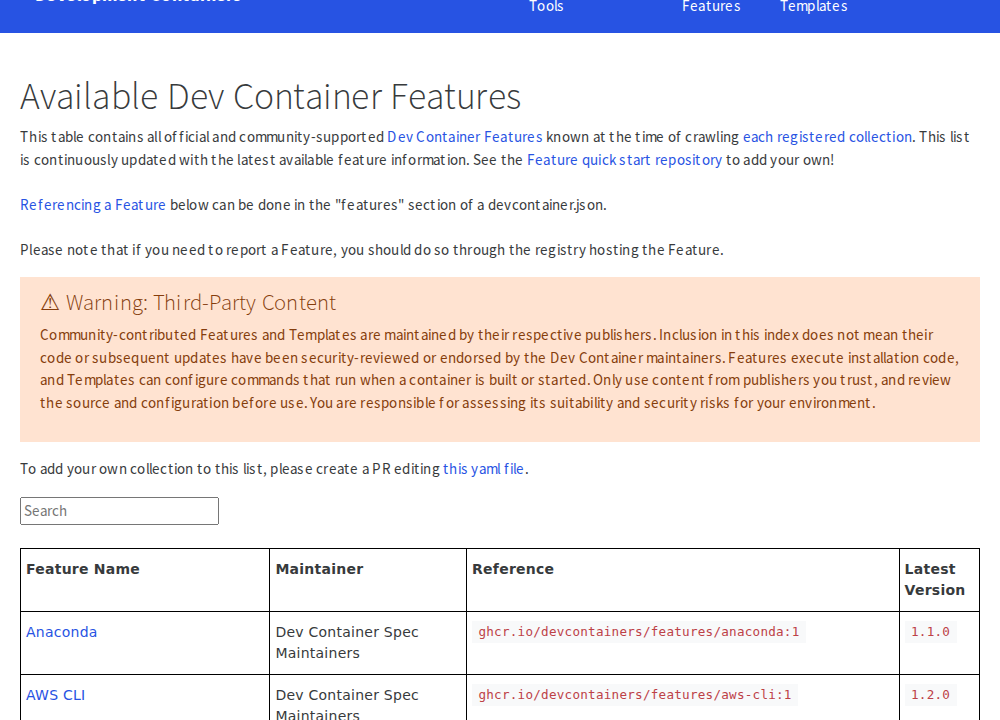
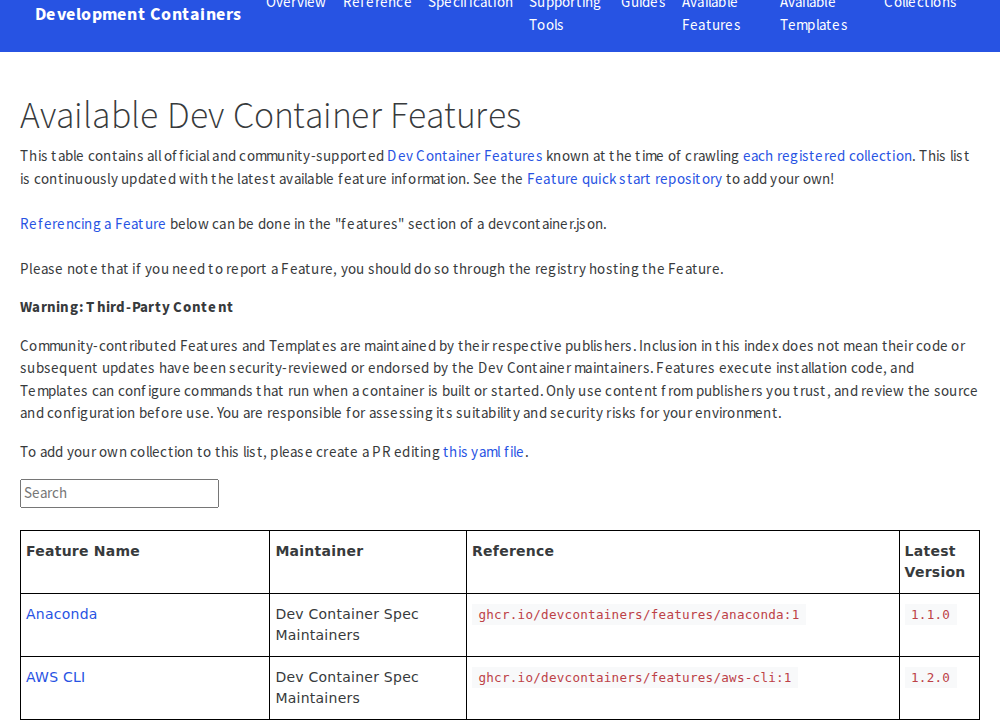
Align third-party warnings with native site notes

diff --git a/templates.html b/templates.html
@@ -16,18 +16,10 @@ sectionid: collection-index-templates
     Please note that if you need to report a Template, you should do so through the registry hosting the Template.
 </p>
 
-<div class="alert alert-warning third-party-content-warning" role="note" aria-labelledby="third-party-content-heading">
-    <h2 class="h4" id="third-party-content-heading"><span aria-hidden="true">&#9888;</span> Warning: Third-Party Content
-    </h2>
-    <p>Community-contributed Features and Templates are maintained by their respective publishers. Inclusion in this
-        index
-        does not mean their code or subsequent updates have been security-reviewed or endorsed by the Dev Container
-        maintainers. Features execute installation code, and Templates can configure commands that run when a container
-        is
-        built or started. Only use content from publishers you trust, and review the source and configuration before
-        use.
-        You are responsible for assessing its suitability and security risks for your environment.</p>
-</div>
+<blockquote class="third-party-content-warning" role="note" aria-labelledby="third-party-content-heading">
+    <p id="third-party-content-heading"><strong>Warning: Third-Party Content</strong></p>
+    <p>Community-contributed Features and Templates are maintained by their respective publishers. Inclusion in this index does not mean their code or subsequent updates have been security-reviewed or endorsed by the Dev Container maintainers. Features execute installation code, and Templates can configure commands that run when a container is built or started. Only use content from publishers you trust, and review the source and configuration before use. You are responsible for assessing its suitability and security risks for your environment.</p>
+</blockquote>
 
 <p>
     To add your own collection to this list, please create a PR editing <a

diff --git a/features.html b/features.html
@@ -18,18 +18,10 @@ sectionid: collection-index-features
     Please note that if you need to report a Feature, you should do so through the registry hosting the Feature.
 </p>
 
-<div class="alert alert-warning third-party-content-warning" role="note" aria-labelledby="third-party-content-heading">
-    <h2 class="h4" id="third-party-content-heading"><span aria-hidden="true">&#9888;</span> Warning: Third-Party Content
-    </h2>
-    <p>Community-contributed Features and Templates are maintained by their respective publishers. Inclusion in this
-        index
-        does not mean their code or subsequent updates have been security-reviewed or endorsed by the Dev Container
-        maintainers. Features execute installation code, and Templates can configure commands that run when a container
-        is
-        built or started. Only use content from publishers you trust, and review the source and configuration before
-        use.
-        You are responsible for assessing its suitability and security risks for your environment.</p>
-</div>
+<blockquote class="third-party-content-warning" role="note" aria-labelledby="third-party-content-heading">
+    <p id="third-party-content-heading"><strong>Warning: Third-Party Content</strong></p>
+    <p>Community-contributed Features and Templates are maintained by their respective publishers. Inclusion in this index does not mean their code or subsequent updates have been security-reviewed or endorsed by the Dev Container maintainers. Features execute installation code, and Templates can configure commands that run when a container is built or started. Only use content from publishers you trust, and review the source and configuration before use. You are responsible for assessing its suitability and security risks for your environment.</p>
+</blockquote>
 
 <p>
     To add your own collection to this list, please create a PR editing <a

diff --git a/collections.html b/collections.html
@@ -12,18 +12,10 @@ sectionid: collection-index
     (i.e. it will be presented in the GitHub Codespaces and VS Code Dev Containers UX).
 </p>
 
-<div class="alert alert-warning third-party-content-warning" role="note" aria-labelledby="third-party-content-heading">
-    <h2 class="h4" id="third-party-content-heading"><span aria-hidden="true">&#9888;</span> Warning: Third-Party Content
-    </h2>
-    <p>Community-contributed Features and Templates are maintained by their respective publishers. Inclusion in this
-        index
-        does not mean their code or subsequent updates have been security-reviewed or endorsed by the Dev Container
-        maintainers. Features execute installation code, and Templates can configure commands that run when a container
-        is
-        built or started. Only use content from publishers you trust, and review the source and configuration before
-        use.
-        You are responsible for assessing its suitability and security risks for your environment.</p>
-</div>
+<blockquote class="third-party-content-warning" role="note" aria-labelledby="third-party-content-heading">
+    <p id="third-party-content-heading"><strong>Warning: Third-Party Content</strong></p>
+    <p>Community-contributed Features and Templates are maintained by their respective publishers. Inclusion in this index does not mean their code or subsequent updates have been security-reviewed or endorsed by the Dev Container maintainers. Features execute installation code, and Templates can configure commands that run when a container is built or started. Only use content from publishers you trust, and review the source and configuration before use. You are responsible for assessing its suitability and security risks for your environment.</p>
+</blockquote>
 
 <p>
     To add your own collection to this list, please create a PR editing <a
